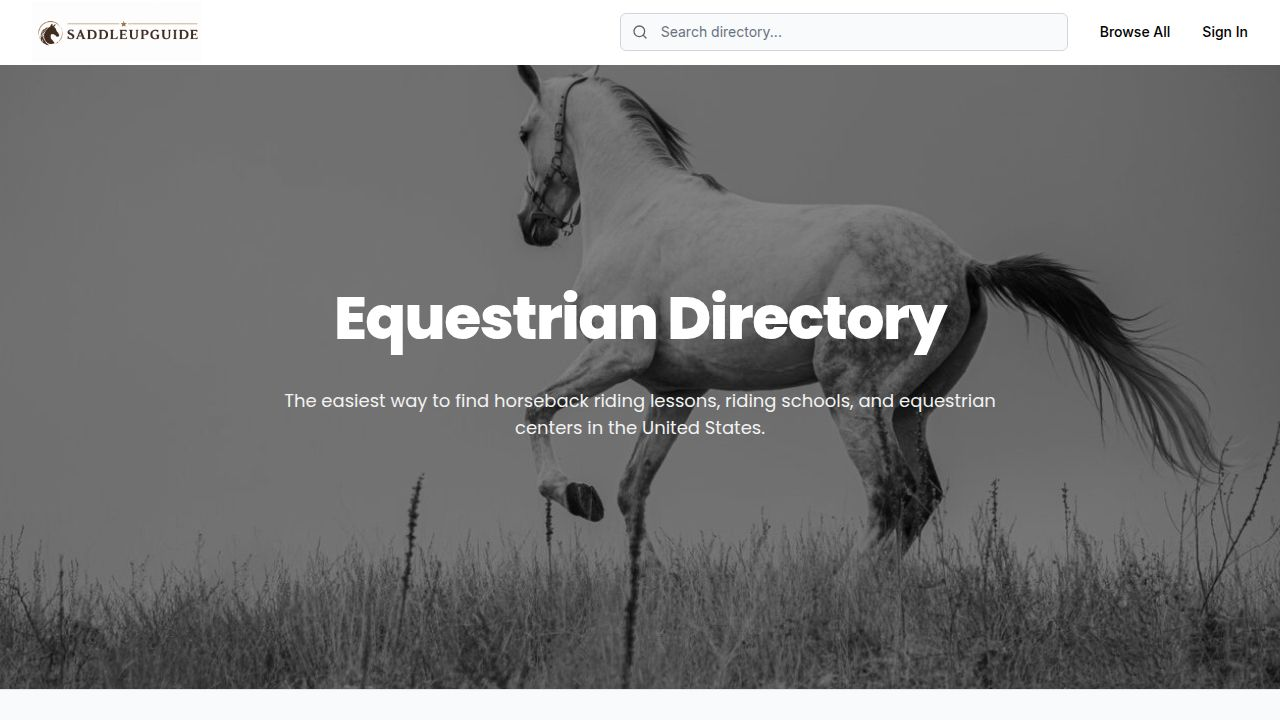
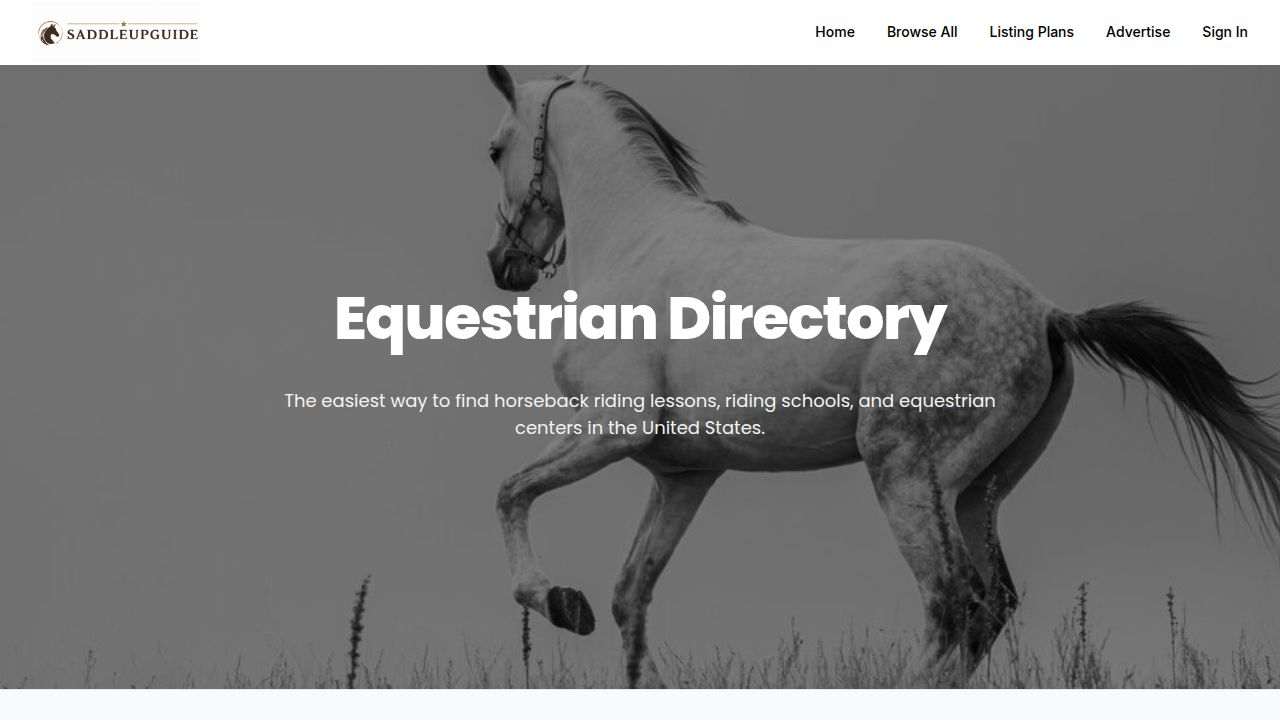
Improve website checkout and payment processing reliability
Update Stripe client to cache credentials and implement retry logic, and modify listing plans page to open checkout in a new tab.

Replit-Commit-Author: Agent
Replit-Commit-Session-Id: 6ee5175f-cfdf-4fef-95e6-afce938c686b
Replit-Commit-Checkpoint-Type: full_checkpoint
Replit-Commit-Event-Id: 39239601-37d7-4823-97d8-dbe11e29f78b
Replit-Commit-Screenshot-Url: https://storage.googleapis.com/screenshot-production-us-central1/fe8e3371-b29a-4b7b-9a2e-1bd333d5a422/6ee5175f-cfdf-4fef-95e6-afce938c686b/RHYtgpz
Replit-Helium-Checkpoint-Created: true

diff --git a/artifacts/api-server/src/stripeClient.ts b/artifacts/api-server/src/stripeClient.ts
@@ -2,7 +2,17 @@ import Stripe from 'stripe';
 import { StripeSync } from 'stripe-replit-sync';
 import { pool } from '@workspace/db';
 
-async function getStripeCredentials(): Promise<{ secretKey: string; webhookSecret?: string }> {
+type StripeCredentials = { secretKey: string; webhookSecret?: string };
+
+// A single checkout can fan out into a dozen+ near-simultaneous webhook events
+// (charge, invoice, customer, subscription, payment_intent, checkout.session, ...),
+// each of which used to call the connector API independently and could trip its
+// rate limit (429). Cache credentials in-process for a short TTL to absorb bursts.
+let credentialsCache: { value: StripeCredentials; expiresAt: number } | null = null;
+let inFlightFetch: Promise<StripeCredentials> | null = null;
+const CREDENTIALS_TTL_MS = 5 * 60 * 1000;
+
+async function fetchStripeCredentials(): Promise<StripeCredentials> {
   const hostname = process.env.REPLIT_CONNECTORS_HOSTNAME;
   const xReplitToken = process.env.REPL_IDENTITY
     ? "repl " + process.env.REPL_IDENTITY
@@ -17,42 +27,74 @@ async function getStripeCredentials(): Promise<{ secretKey: string; webhookSecre
     );
   }
 
-  const resp = await fetch(
-    `https://${hostname}/api/v2/connection?include_secrets=true&connector_names=stripe`,
-    {
-      headers: { Accept: "application/json", X_REPLIT_TOKEN: xReplitToken },
-      signal: AbortSignal.timeout(10_000),
-    }
-  );
-
-  if (!resp.ok) {
-    throw new Error(`Failed to fetch Stripe credentials: ${resp.status} ${resp.statusText}`);
-  }
-
-  const data = await resp.json() as {
-    items?: Array<{
-      settings?: { secret?: string; webhook_secret?: string };
-      webhook_config?: { secret?: string; signing_secret?: string } | null;
-    }>
-  };
-  const item = data.items?.[0];
-  const settings = item?.settings;
-
-  if (!settings?.secret) {
-    throw new Error(
-      'Stripe integration not connected or missing secret key. ' +
-      'Connect Stripe via the Integrations tab first.'
+  const maxAttempts = 3;
+  let lastErr: unknown;
+  for (let attempt = 1; attempt <= maxAttempts; attempt++) {
+    const resp = await fetch(
+      `https://${hostname}/api/v2/connection?include_secrets=true&connector_names=stripe`,
+      {
+        headers: { Accept: "application/json", X_REPLIT_TOKEN: xReplitToken },
+        signal: AbortSignal.timeout(10_000),
+      }
     );
-  }
 
-  return {
-    secretKey: settings.secret,
-    webhookSecret:
-      settings.webhook_secret ??
-      item?.webhook_config?.secret ??
-      item?.webhook_config?.signing_secret ??
-      process.env.STRIPE_WEBHOOK_SECRET,
-  };
+    if (resp.ok) {
+      const data = await resp.json() as {
+        items?: Array<{
+          settings?: { secret?: string; webhook_secret?: string };
+          webhook_config?: { secret?: string; signing_secret?: string } | null;
+        }>
+      };
+      const item = data.items?.[0];
+      const settings = item?.settings;
+
+      if (!settings?.secret) {
+        throw new Error(
+          'Stripe integration not connected or missing secret key. ' +
+          'Connect Stripe via the Integrations tab first.'
+        );
+      }
+
+      return {
+        secretKey: settings.secret,
+        webhookSecret:
+          settings.webhook_secret ??
+          item?.webhook_config?.secret ??
+          item?.webhook_config?.signing_secret ??
+          process.env.STRIPE_WEBHOOK_SECRET,
+      };
+    }
+
+    lastErr = new Error(`Failed to fetch Stripe credentials: ${resp.status} ${resp.statusText}`);
+    if (resp.status === 429 && attempt < maxAttempts) {
+      const retryAfterHeader = resp.headers.get('retry-after');
+      const retryAfterMs = retryAfterHeader ? Number(retryAfterHeader) * 1000 : NaN;
+      const backoffMs = Number.isFinite(retryAfterMs) ? retryAfterMs : 500 * attempt;
+      await new Promise((r) => setTimeout(r, backoffMs));
+      continue;
+    }
+    break;
+  }
+  throw lastErr;
+}
+
+async function getStripeCredentials(): Promise<StripeCredentials> {
+  const now = Date.now();
+  if (credentialsCache && credentialsCache.expiresAt > now) {
+    return credentialsCache.value;
+  }
+  if (inFlightFetch) {
+    return inFlightFetch;
+  }
+  inFlightFetch = fetchStripeCredentials()
+    .then((value) => {
+      credentialsCache = { value, expiresAt: Date.now() + CREDENTIALS_TTL_MS };
+      return value;
+    })
+    .finally(() => {
+      inFlightFetch = null;
+    });
+  return inFlightFetch;
 }
 
 export async function getUncachableStripeClient(): Promise<Stripe> {

diff --git a/artifacts/directory-master/src/pages/listing-plans.tsx b/artifacts/directory-master/src/pages/listing-plans.tsx
@@ -122,6 +122,13 @@ export default function ListingPlansPage() {
     if (!pickerPlan || !selectedEntry) return;
     setCheckingOut(true);
     setError(null);
+
+    // Open the tab synchronously (within the click's event handler) so browsers
+    // don't treat it as a popup-blocked, non-user-initiated navigation. This also
+    // avoids trying to navigate the app's own frame to Stripe, which can silently
+    // fail when the app is embedded (e.g. previewed inside an iframe).
+    const checkoutWindow = window.open("", "_blank");
+
     try {
       const res = await fetch("/api/stripe/checkout-plan", {
         method: "POST",
@@ -130,8 +137,16 @@ export default function ListingPlansPage() {
       });
       const data = await res.json();
       if (!res.ok) throw new Error(data.error || "Checkout failed");
-      window.location.href = data.url;
+
+      if (checkoutWindow) {
+        checkoutWindow.location.href = data.url;
+      } else {
+        // Popup was blocked — fall back to a same-tab redirect.
+        window.location.href = data.url;
+      }
+      setCheckingOut(false);
     } catch (err: any) {
+      checkoutWindow?.close();
       setError(err.message || "Something went wrong. Please try again.");
       setCheckingOut(false);
     }